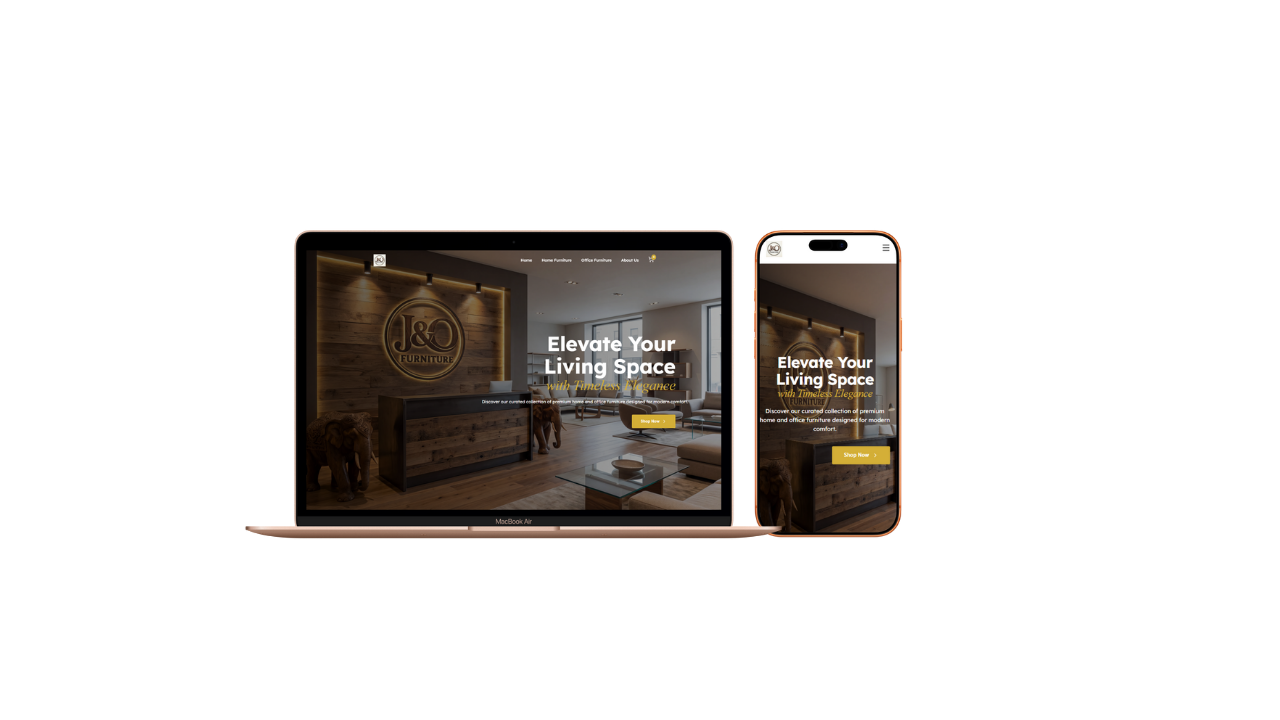
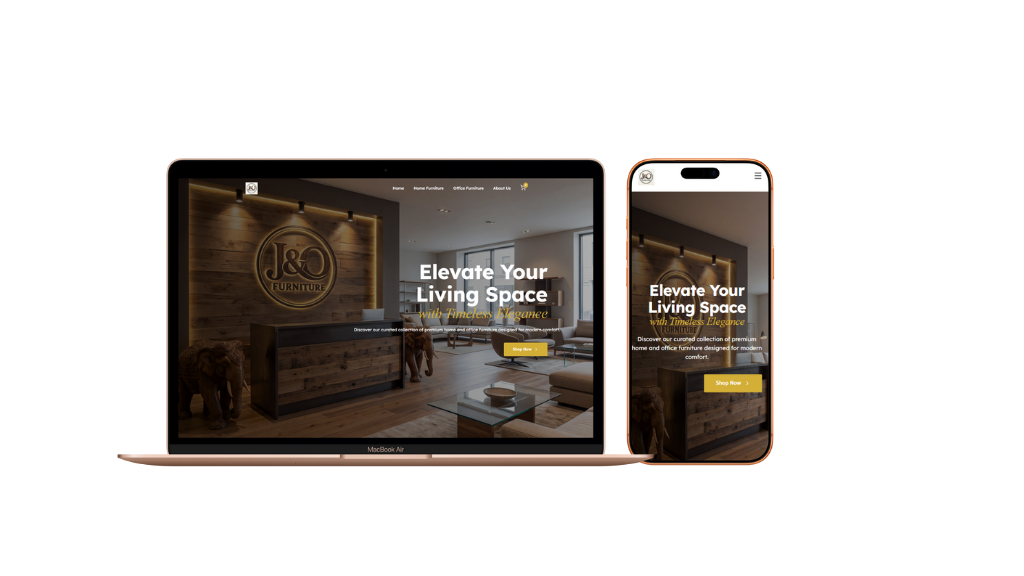
work section update

Changed region(s): [[0.0938, 0.25, 0.7812, 0.8125]]

diff --git a/components/ui/footer.tsx b/components/ui/footer.tsx
@@ -2,7 +2,7 @@
 
 import React, { useState, useEffect, useRef } from 'react';
 import Image from 'next/image';
-import { ArrowUpRight } from 'lucide-react';
+import { ArrowUpRight, Linkedin, Twitter, Github, Instagram } from 'lucide-react';
 
 // Helper used for color interpolation
 const lerpColor = (start: string, end: string, t: number) => {
@@ -74,7 +74,7 @@ export default function Footer({ targetColors }: FooterProps) {
     const accentGradient = `linear-gradient(135deg, ${currentGradientColors[0]} 0%, ${currentGradientColors[1]} 100%)`;
 
     return (
-        <footer className="relative w-full py-24 px-6 border-t border-white/10 bg-transparent text-white overflow-hidden">
+        <footer className="relative w-full py-16 px-6 border-t border-white/10 bg-transparent text-white overflow-hidden">
             {/* Glassmorphism Background */}
             <div className="absolute inset-0 bg-gradient-to-b from-black/40 via-black/60 to-black/80 backdrop-blur-xl"></div>
 
@@ -114,7 +114,7 @@ export default function Footer({ targetColors }: FooterProps) {
                             rel="noopener noreferrer"
                             className="text-white/60 hover:text-white transition-colors duration-300 font-medium"
                         >
-                            TheDBot
+                            theDBot LLC
                         </a>
                     </div>
                     <div className="mt-4">
@@ -126,6 +126,49 @@ export default function Footer({ targetColors }: FooterProps) {
                             darshana@thedbot.com
                             <ArrowUpRight className="w-3 h-3 opacity-0 -translate-y-1 group-hover:opacity-100 group-hover:translate-y-0 transition-all duration-300" />
                         </a>
+                    </div>
+
+                    {/* Social Media Icons */}
+                    <div className="mt-4">
+                        <p className="text-white/30 text-xs uppercase tracking-wider mb-3">Follow Us</p>
+                        <div className="flex gap-4">
+                            <a
+                                href="https://linkedin.com"
+                                target="_blank"
+                                rel="noopener noreferrer"
+                                className="text-white/40 hover:text-white transition-colors duration-300"
+                                aria-label="LinkedIn"
+                            >
+                                <Linkedin className="w-5 h-5" />
+                            </a>
+                            <a
+                                href="https://twitter.com"
+                                target="_blank"
+                                rel="noopener noreferrer"
+                                className="text-white/40 hover:text-white transition-colors duration-300"
+                                aria-label="Twitter"
+                            >
+                                <Twitter className="w-5 h-5" />
+                            </a>
+                            <a
+                                href="https://github.com"
+                                target="_blank"
+                                rel="noopener noreferrer"
+                                className="text-white/40 hover:text-white transition-colors duration-300"
+                                aria-label="GitHub"
+                            >
+                                <Github className="w-5 h-5" />
+                            </a>
+                            <a
+                                href="https://instagram.com"
+                                target="_blank"
+                                rel="noopener noreferrer"
+                                className="text-white/40 hover:text-white transition-colors duration-300"
+                                aria-label="Instagram"
+                            >
+                                <Instagram className="w-5 h-5" />
+                            </a>
+                        </div>
                     </div>
                 </div>
 
@@ -157,64 +200,15 @@ export default function Footer({ targetColors }: FooterProps) {
                             ))}
                         </ul>
                     </div>
-
-                    <div>
-                        <h4
-                            className="text-sm font-bold tracking-widest uppercase mb-8 transition-colors duration-1000"
-                            style={{
-                                backgroundImage: accentGradient,
-                                WebkitBackgroundClip: "text",
-                                backgroundClip: "text",
-                                WebkitTextFillColor: "transparent"
-                            }}
-                        >
-                            Projects
-                        </h4>
-                        <ul className="space-y-4">
-                            <li>
-                                <a
-                                    href="https://thedbot.com/"
-                                    target="_blank"
-                                    rel="noopener noreferrer"
-                                    className="text-white/60 hover:text-white transition-all duration-300 flex items-center gap-2 group text-base"
-                                >
-                                    TheDBot
-                                    <ArrowUpRight className="w-4 h-4 opacity-0 -translate-y-1 group-hover:opacity-100 group-hover:translate-y-0 transition-all duration-300" />
-                                </a>
-                            </li>
-                            <li>
-                                <a
-                                    href="https://jofurniture.vercel.app/"
-                                    target="_blank"
-                                    rel="noopener noreferrer"
-                                    className="text-white/60 hover:text-white transition-all duration-300 flex items-center gap-2 group text-base"
-                                >
-                                    J & O Furniture
-                                    <ArrowUpRight className="w-4 h-4 opacity-0 -translate-y-1 group-hover:opacity-100 group-hover:translate-y-0 transition-all duration-300" />
-                                </a>
-                            </li>
-                            <li>
-                                <a
-                                    href="https://www.signaltradingbots.com/"
-                                    target="_blank"
-                                    rel="noopener noreferrer"
-                                    className="text-white/60 hover:text-white transition-all duration-300 flex items-center gap-2 group text-base"
-                                >
-                                    SignalTradingBots
-                                    <ArrowUpRight className="w-4 h-4 opacity-0 -translate-y-1 group-hover:opacity-100 group-hover:translate-y-0 transition-all duration-300" />
-                                </a>
-                            </li>
-                        </ul>
-                    </div>
                 </div>
             </div>
 
             {/* Bottom Bar */}
-            <div className="max-w-7xl mx-auto mt-24 pt-8 border-t border-white/5 flex flex-col md:flex-row justify-between items-center gap-6 text-white/30 text-sm">
+            <div className="relative z-10 max-w-7xl mx-auto mt-16 pt-6 border-t border-white/5 flex flex-col md:flex-row justify-between items-center gap-4 text-white/30 text-sm">
                 <p>&copy; {new Date().getFullYear()} Dynamic Design Factory. All rights reserved.</p>
                 <div className="flex gap-8">
                     <a href="#" className="hover:text-white transition-colors">Privacy Policy</a>
-                    <a href="#" className="hover:text-white transition-colors">Terms of Service</a>
+                    <a href="#" className="hover:text-white transition-colors">Terms and Conditions</a>
                 </div>
             </div>
         </footer>

diff --git a/components/ui/work-section.tsx b/components/ui/work-section.tsx
@@ -75,6 +75,14 @@ interface WorkSectionProps {
 
 export default function WorkSection({ targetColors }: WorkSectionProps) {
     const [activeIndex, setActiveIndex] = useState(0);
+    const [isLargeScreen, setIsLargeScreen] = useState(false);
+
+    useEffect(() => {
+        const checkScreen = () => setIsLargeScreen(window.innerWidth >= 1500);
+        checkScreen();
+        window.addEventListener("resize", checkScreen);
+        return () => window.removeEventListener("resize", checkScreen);
+    }, []);
 
     // Gradient State - inverted colors for white background
     const [currentGradientColors, setCurrentGradientColors] = useState<[string, string]>(["#000000", "#000000"]);
@@ -189,7 +197,7 @@ export default function WorkSection({ targetColors }: WorkSectionProps) {
                 {/* Main Split Layout - with vertical label + progress line (01/02/03 style like testimonials) */}
                 <div className="grid grid-cols-1 lg:grid-cols-12 gap-6 lg:gap-8 items-center -mt-2">
                     {/* Left Column: vertical label + gradient line (01/02/03 style), then text & info */}
-                    <div className="lg:col-span-5 order-2 lg:order-1 flex flex-row gap-0 justify-center pointer-events-auto">
+                    <div className="lg:col-span-5 xl:col-span-4 order-2 lg:order-1 flex flex-row gap-0 justify-center pointer-events-auto">
                         {/* Vertical "Our Work" + gradient progress line (like testimonials) */}
                         <div className="hidden lg:flex flex-col items-center justify-center pr-6 border-r border-black/10 self-stretch">
                             <motion.span
@@ -214,9 +222,9 @@ export default function WorkSection({ targetColors }: WorkSectionProps) {
                         </div>
                         <div className="flex-1 min-w-0 relative">
                             {/* Background Number - positioned behind text */}
-                            <div className="absolute -left-12 -bottom-10 w-full h-full pointer-events-none select-none z-0 overflow-visible">
+                            <div className="absolute left-0 -bottom-10 w-full h-full pointer-events-none select-none z-0 overflow-visible">
                                 <motion.div
-                                    className="text-[15rem] md:text-[20rem] font-bold leading-none tracking-tighter"
+                                    className="text-[15rem] md:text-[20rem] xl:text-[16rem] font-bold leading-none tracking-tighter"
                                 >
                                     <AnimatePresence mode="wait">
                                         <motion.span
@@ -298,14 +306,14 @@ export default function WorkSection({ targetColors }: WorkSectionProps) {
                     </div>
 
                     {/* Right Column: Image */}
-                    <div className="lg:col-span-7 order-1 lg:order-2 pointer-events-auto flex items-stretch">
+                    <div className="lg:col-span-7 xl:col-span-8 order-1 lg:order-2 pointer-events-auto flex items-stretch">
                         <div className="relative w-full h-[65vh] min-h-[450px] sm:h-[70vh] md:h-[80vh] max-h-[1000px] overflow-hidden rounded-3xl">
                             <AnimatePresence>
                                 <motion.div
                                     key={activeIndex}
-                                    initial={{ opacity: 0, scale: 1.25 }}
-                                    animate={{ opacity: 1, scale: 1.25 }}
-                                    exit={{ opacity: 0, scale: 1.25 }}
+                                    initial={{ opacity: 0, scale: isLargeScreen ? 1.5 : 1.05, x: isLargeScreen ? 100 : 30, y: -70 }}
+                                    animate={{ opacity: 1, scale: isLargeScreen ? 1.5 : 1.05, x: isLargeScreen ? 100 : 30, y: -70 }}
+                                    exit={{ opacity: 0, scale: isLargeScreen ? 1.5 : 1.05, x: isLargeScreen ? 100 : 30, y: -70 }}
                                     transition={{ duration: 0.5, ease: "easeInOut" }}
                                     className="absolute inset-0 w-full h-full"
                                 >
@@ -314,7 +322,7 @@ export default function WorkSection({ targetColors }: WorkSectionProps) {
                                             src={current.image}
                                             alt={current.name}
                                             fill
-                                            className="object-contain" // object-contain ensures the aspect ratio of the PNG (with transparent padding if any) is preserved perfectly
+                                            className="object-contain" // Changed to object-contain to show full mockup without cropping
                                             sizes="(max-width: 768px) 100vw, 60vw"
                                             priority
                                             quality={95}
